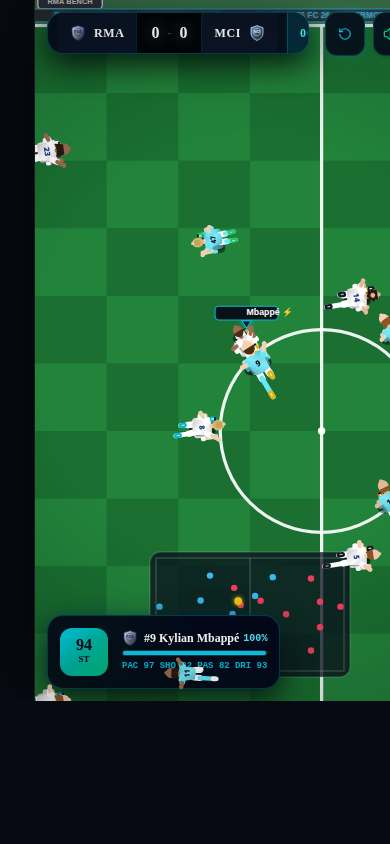
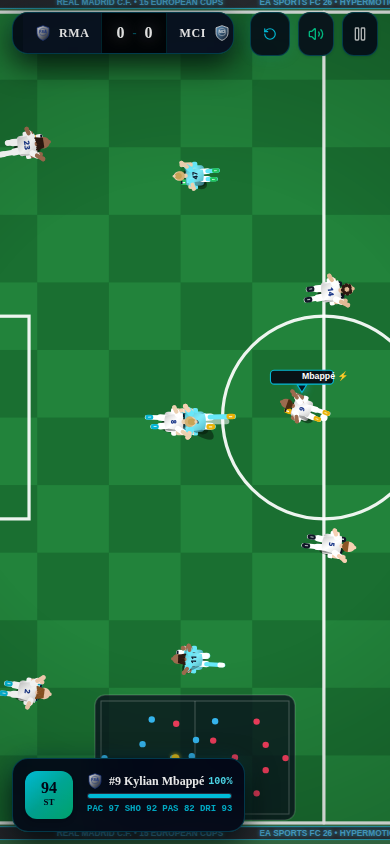
Redesign mobile kick-off screen

diff --git a/src/components/TeamSelectModal.tsx b/src/components/TeamSelectModal.tsx
@@ -88,7 +88,7 @@ export const TeamSelectModal: React.FC<TeamSelectModalProps> = ({
   };
 
   return (
-    <div className="h-full flex flex-col bg-[#070e17] text-white overflow-hidden select-none relative font-['Outfit']">
+    <div className="team-select-screen h-full flex flex-col bg-[#070e17] text-white overflow-hidden select-none relative font-['Outfit']">
       {/* Background ambient lighting */}
       <div className="absolute top-0 right-1/4 w-96 h-96 bg-cyan-500/10 rounded-full blur-3xl pointer-events-none" />
       <div className="absolute bottom-0 left-1/4 w-96 h-96 bg-teal-500/10 rounded-full blur-3xl pointer-events-none" />
@@ -103,7 +103,7 @@ export const TeamSelectModal: React.FC<TeamSelectModalProps> = ({
       />
 
       {/* Mode Sub-Header */}
-      <div className="h-16 px-4 md:px-8 bg-slate-950/80 border-b border-cyan-900/30 flex items-center justify-between shrink-0 z-10">
+      <div className="team-select-header h-16 px-4 md:px-8 bg-slate-950/80 border-b border-cyan-900/30 flex items-center justify-between shrink-0 z-10">
         <div className="flex items-center gap-3">
           <button
             onClick={onBack}
@@ -131,9 +131,9 @@ export const TeamSelectModal: React.FC<TeamSelectModalProps> = ({
       </div>
 
       {/* Main Body */}
-      <div className="flex-1 overflow-y-auto p-4 md:p-6 max-w-6xl w-full mx-auto space-y-6">
+      <div className="team-select-body flex-1 overflow-y-auto p-4 md:p-6 max-w-6xl w-full mx-auto space-y-6">
         {/* League Category Filter Tabs */}
-        <div className="flex items-center justify-center gap-2 overflow-x-auto pb-1">
+        <div className="team-select-leagues flex items-center justify-center gap-2 overflow-x-auto pb-1">
           <button
             onClick={() => setLeagueFilter('ALL')}
             className={`px-3.5 py-1.5 rounded-full text-xs font-['Chakra_Petch'] font-black uppercase tracking-wider transition ${
@@ -163,9 +163,9 @@ export const TeamSelectModal: React.FC<TeamSelectModalProps> = ({
         </div>
 
         {/* Team Selection Dual Cards */}
-        <div className="grid grid-cols-1 lg:grid-cols-2 gap-6">
+        <div className="team-select-matchup-grid grid grid-cols-1 lg:grid-cols-2 gap-6">
           {/* User Team (Home) */}
-          <div className="bg-slate-950/80 border border-cyan-500/40 rounded-3xl p-6 shadow-2xl relative overflow-hidden flex flex-col justify-between">
+          <div className="team-select-card team-select-card-home bg-slate-950/80 border border-cyan-500/40 rounded-3xl p-6 shadow-2xl relative overflow-hidden flex flex-col justify-between">
             <div className="absolute top-0 right-0 w-48 h-48 bg-cyan-500/10 rounded-full blur-2xl pointer-events-none" />
 
             <div>
@@ -238,7 +238,7 @@ export const TeamSelectModal: React.FC<TeamSelectModalProps> = ({
           </div>
 
           {/* CPU Team (Away) */}
-          <div className="bg-slate-950/80 border border-teal-500/40 rounded-3xl p-6 shadow-2xl relative overflow-hidden flex flex-col justify-between">
+          <div className="team-select-card team-select-card-away bg-slate-950/80 border border-teal-500/40 rounded-3xl p-6 shadow-2xl relative overflow-hidden flex flex-col justify-between">
             <div className="absolute top-0 right-0 w-48 h-48 bg-teal-500/10 rounded-full blur-2xl pointer-events-none" />
 
             <div>
@@ -321,7 +321,7 @@ export const TeamSelectModal: React.FC<TeamSelectModalProps> = ({
         {(() => {
           const stadium = getStadiumForTeam(homeTeam.id);
           return (
-            <div className="bg-gradient-to-r from-slate-900/90 via-slate-950/90 to-slate-900/90 border border-cyan-500/30 rounded-3xl p-5 flex flex-col md:flex-row items-center justify-between gap-4 shadow-xl backdrop-blur-md">
+            <div className="team-select-stadium bg-gradient-to-r from-slate-900/90 via-slate-950/90 to-slate-900/90 border border-cyan-500/30 rounded-3xl p-5 flex flex-col md:flex-row items-center justify-between gap-4 shadow-xl backdrop-blur-md">
               <div className="flex items-center gap-4">
                 <div className="w-14 h-14 rounded-2xl bg-cyan-500/10 border border-cyan-500/40 flex items-center justify-center text-2xl shadow-[0_0_15px_rgba(6,182,212,0.25)]">
                   🏟
@@ -366,7 +366,7 @@ export const TeamSelectModal: React.FC<TeamSelectModalProps> = ({
         })()}
 
         {/* Match Parameters: Difficulty, Length, Weather */}
-        <div className="bg-slate-950/80 border border-cyan-500/30 rounded-3xl p-6 grid grid-cols-1 md:grid-cols-3 gap-6 shadow-xl">
+        <div className="team-select-params bg-slate-950/80 border border-cyan-500/30 rounded-3xl p-6 grid grid-cols-1 md:grid-cols-3 gap-6 shadow-xl">
           {/* Difficulty */}
           <div>
             <label className="text-xs font-['Chakra_Petch'] font-bold text-white/70 uppercase tracking-wider flex items-center gap-2 mb-2">

diff --git a/src/index.css b/src/index.css
@@ -147,3 +147,59 @@ body { background:#02050a; }
   .home-feature-copy { width:100%; }
   .home-feature-copy h1 { max-width:280px; }
 }
+
+/* Phone-native kick-off layout: stacked navigation, compact matchup cards, fixed action rhythm. */
+@media (max-width:430px) {
+  .team-select-screen { background:radial-gradient(circle at 50% 18%,rgba(8,75,100,.32),transparent 42%),#06111d; }
+  .team-select-header { height:auto; min-height:92px; padding:11px 12px 12px; align-items:flex-start; gap:10px; }
+  .team-select-header > div { min-width:0; flex:1; }
+  .team-select-header h1 { font-size:20px; line-height:1.05; letter-spacing:.04em; }
+  .team-select-header p { max-width:180px; margin-top:4px; font-size:9px; line-height:1.25; }
+  .team-select-header > button:last-child { flex:none; align-self:center; min-height:44px; padding:0 12px; border-radius:14px; font-size:10px; line-height:1.05; }
+  .team-select-header > button:last-child svg { width:14px; height:14px; }
+  .team-select-body { padding:12px 12px 76px; gap:12px; }
+  .team-select-leagues { justify-content:flex-start; gap:7px; padding:0 1px 5px; scrollbar-width:none; }
+  .team-select-leagues::-webkit-scrollbar { display:none; }
+  .team-select-leagues > button { flex:none; min-height:38px; padding:0 11px; font-size:9px; letter-spacing:.08em; }
+  .team-select-leagues > button svg { width:14px; height:14px; }
+  .team-select-matchup-grid { grid-template-columns:repeat(2,minmax(0,1fr)); gap:8px; align-items:stretch; }
+  .team-select-card { min-width:0; padding:10px; border-radius:20px; }
+  .team-select-card > div:first-child { width:100%; }
+  .team-select-card > div:first-child > div:first-child { gap:4px; align-items:flex-start; }
+  .team-select-card > div:first-child > div:first-child > span { max-width:calc(100% - 35px); padding:5px 6px; font-size:7px; line-height:1.05; letter-spacing:.08em; }
+  .team-select-card > div:first-child > div:first-child > img,
+  .team-select-card > div:first-child > div:first-child > div:last-child { transform:scale(.72); transform-origin:top right; margin-right:-5px; margin-top:-4px; }
+  .team-select-card h2 { margin-top:7px; font-size:18px; line-height:.95; letter-spacing:.025em; overflow-wrap:anywhere; }
+  .team-select-card .mt-1 { min-height:28px; gap:3px; flex-wrap:wrap; }
+  .team-select-card .mt-1 span { font-size:7px; line-height:1.1; }
+  .team-select-card .mt-1 svg { width:10px; height:10px; }
+  .team-select-card .grid.grid-cols-4 { grid-template-columns:repeat(2,minmax(0,1fr)); gap:4px; margin-top:8px; }
+  .team-select-card .grid.grid-cols-4 > div { padding:5px 2px; border-radius:9px; }
+  .team-select-card .grid.grid-cols-4 > div span:first-child { font-size:7px; }
+  .team-select-card .grid.grid-cols-4 > div span:last-child { font-size:14px; }
+  .team-select-card .mt-3 { gap:4px; margin-top:8px; }
+  .team-select-card .mt-3 > div { height:56px; border-radius:8px; }
+  .team-select-card .mt-3 span { font-size:6px; }
+  .team-select-card .mt-3 span:first-of-type { font-size:7px; }
+  .team-select-card .mt-6 { margin-top:10px; }
+  .team-select-card .mt-6 label { margin-bottom:5px; font-size:7px; }
+  .team-select-card .mt-6 .grid.grid-cols-4 { grid-template-columns:repeat(4,minmax(0,1fr)); gap:3px; }
+  .team-select-card .mt-6 .grid.grid-cols-4 button { min-height:42px; padding:3px 2px; border-radius:8px; gap:1px; }
+  .team-select-card .mt-6 .grid.grid-cols-4 button span { font-size:7px; }
+  .team-select-card .mt-6 .grid.grid-cols-4 button > div { transform:scale(.7); margin:-5px 0; }
+  .team-select-card-away .flex.items-center.gap-2 { flex-wrap:wrap; }
+  .team-select-card-away .flex.items-center.gap-2 > button { min-height:24px; padding:3px 6px; font-size:7px; }
+  .team-select-stadium, .team-select-params { padding:12px; border-radius:18px; gap:10px; }
+  .team-select-stadium > div:first-child { align-items:flex-start; gap:9px; }
+  .team-select-stadium > div:first-child > div:first-child { width:42px; height:42px; flex:none; }
+  .team-select-stadium h3 { font-size:14px; line-height:1; }
+  .team-select-stadium p, .team-select-stadium span { font-size:8px; }
+  .team-select-stadium > div:last-child { width:100%; display:grid; grid-template-columns:1fr 1fr; gap:6px; }
+  .team-select-stadium > div:last-child > div { padding:7px 5px; border-radius:10px; }
+  .team-select-stadium > div:last-child span { font-size:7px; }
+  .team-select-params { gap:12px; }
+  .team-select-params > div { min-width:0; }
+  .team-select-params label { font-size:8px; }
+  .team-select-params .grid { gap:4px; }
+  .team-select-params button { min-height:36px; padding:0 3px; font-size:8px; border-radius:9px; }
+}
